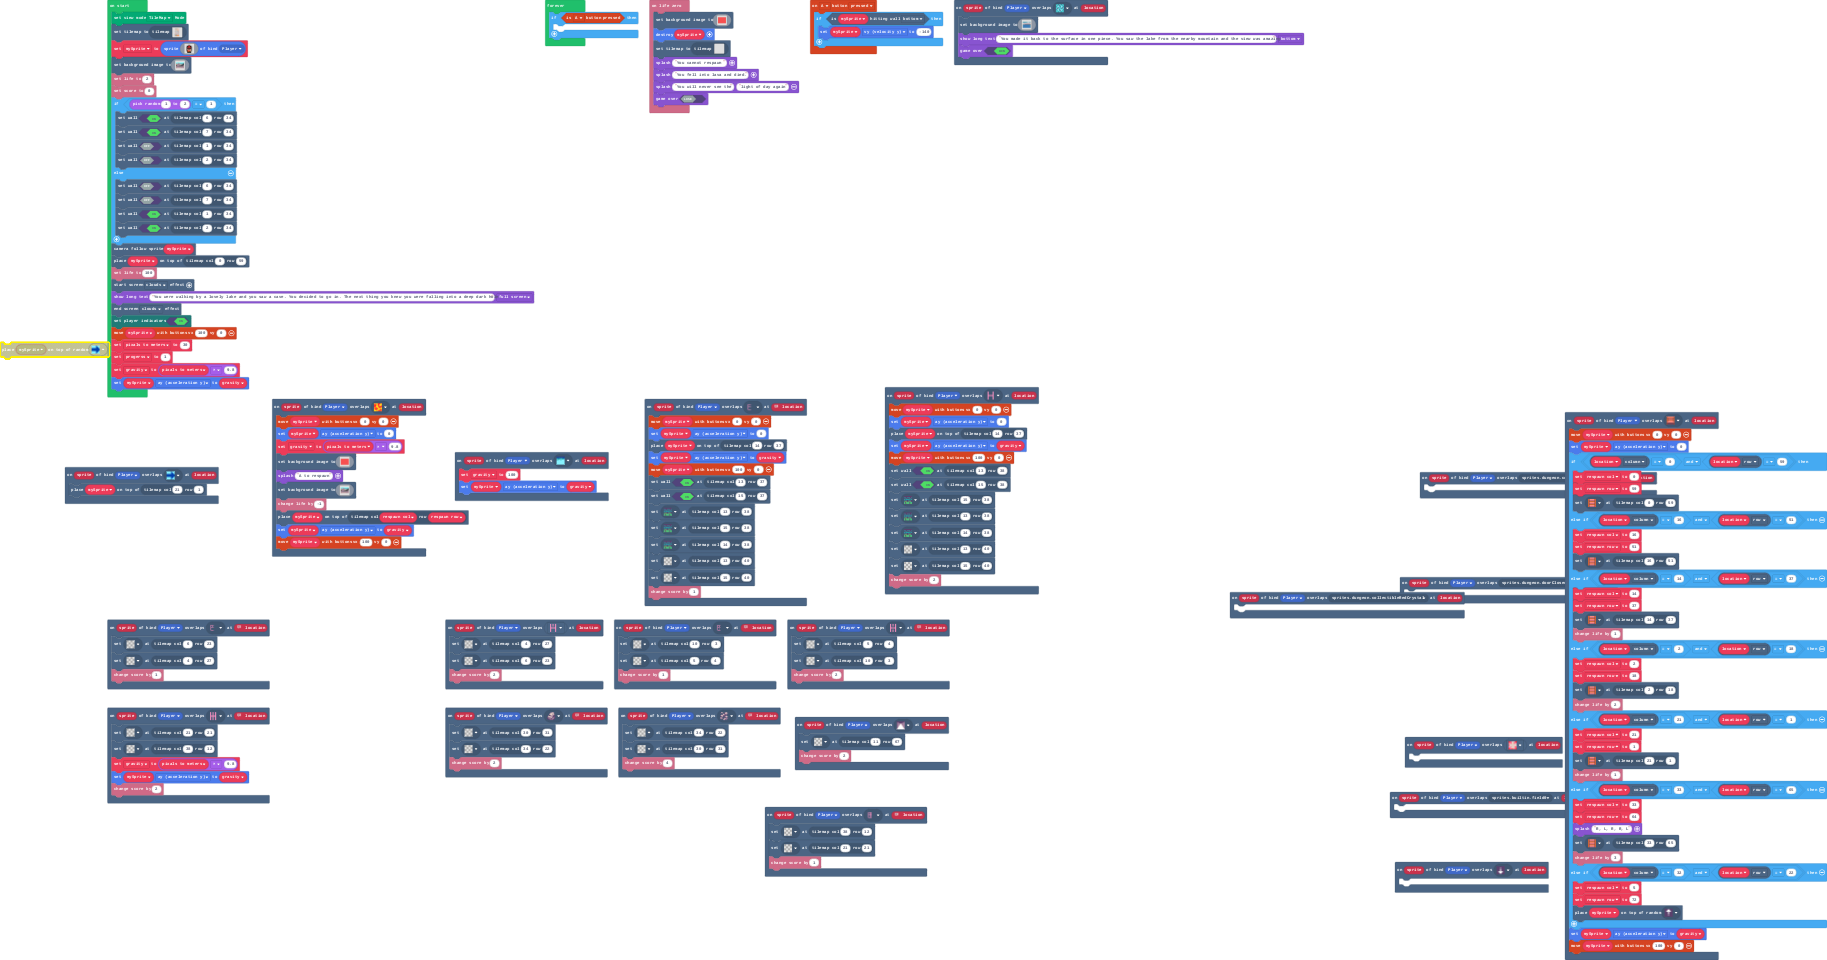
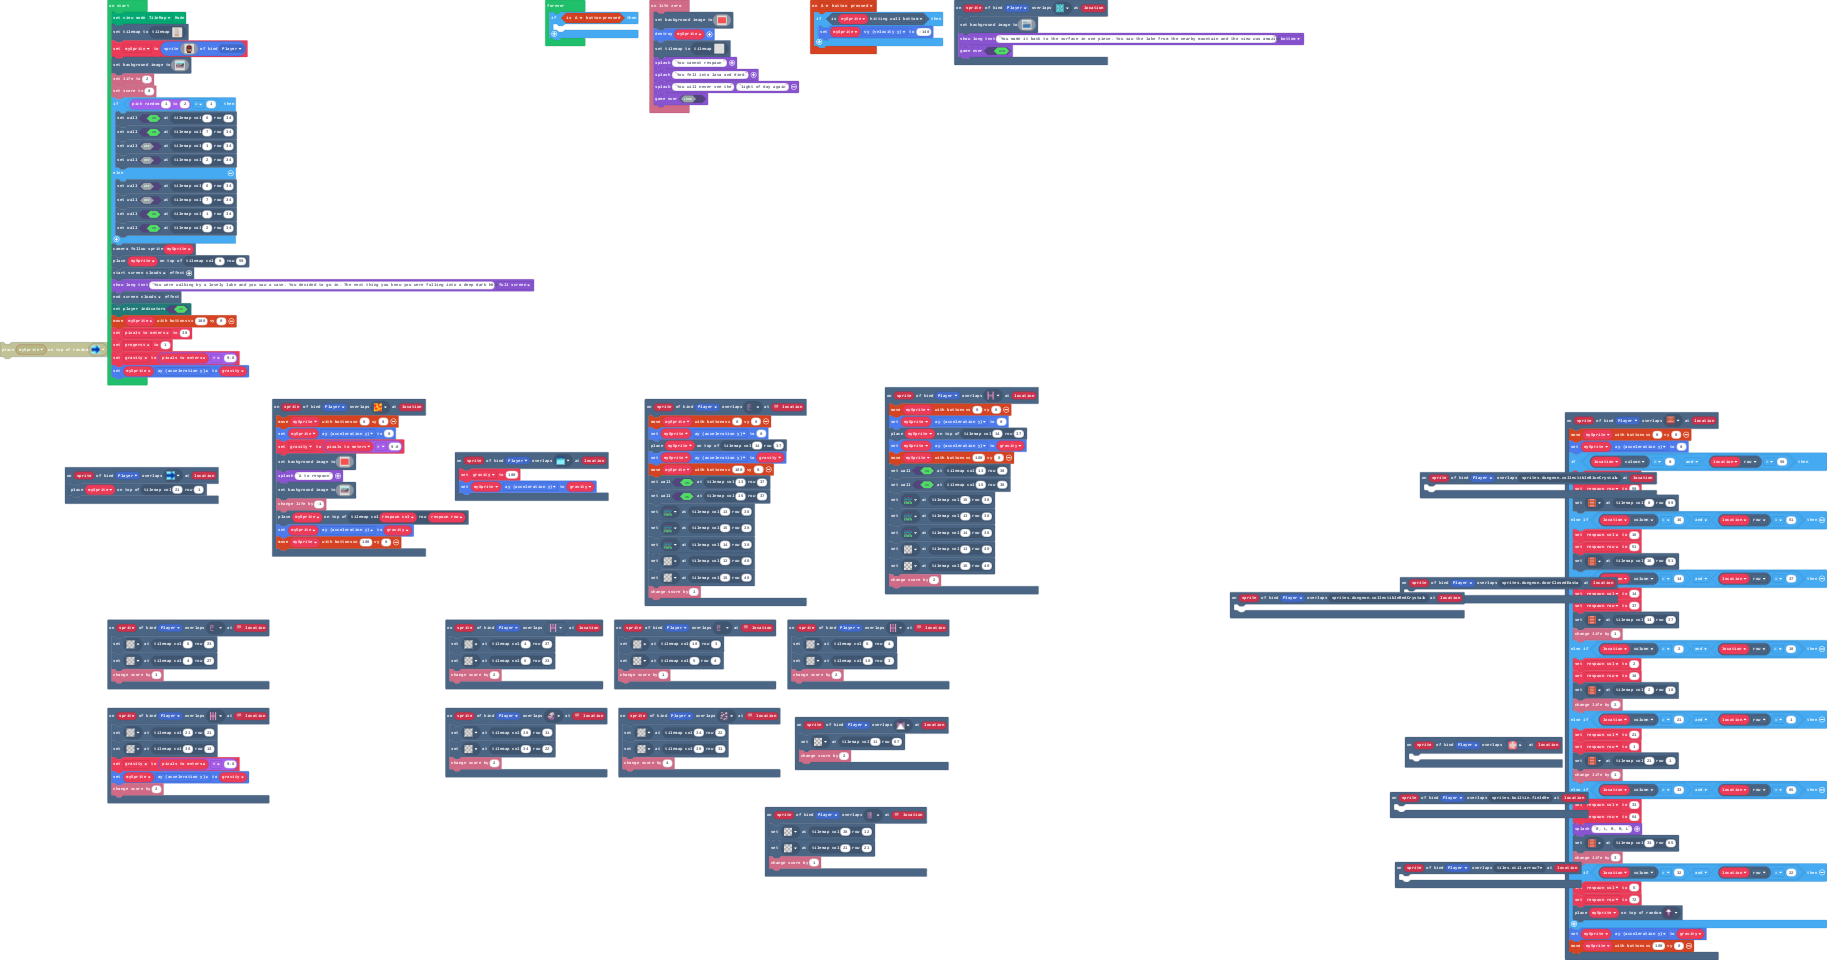
Update pxt.json, main.blocks, main.ts

diff --git a/main.ts b/main.ts
@@ -802,7 +802,6 @@ if (randint(1, 2) == 1) {
 }
 scene.cameraFollowSprite(mySprite)
 tiles.placeOnTile(mySprite, tiles.getTileLocation(0, 59))
-info.setLife(100)
 effects.clouds.startScreenEffect()
 game.showLongText("You were walking by a lovely lake and you saw a cave. You decided to go in. The next thing you knew you were falling into a deep dark hole  ", DialogLayout.Full)
 effects.clouds.endScreenEffect()
